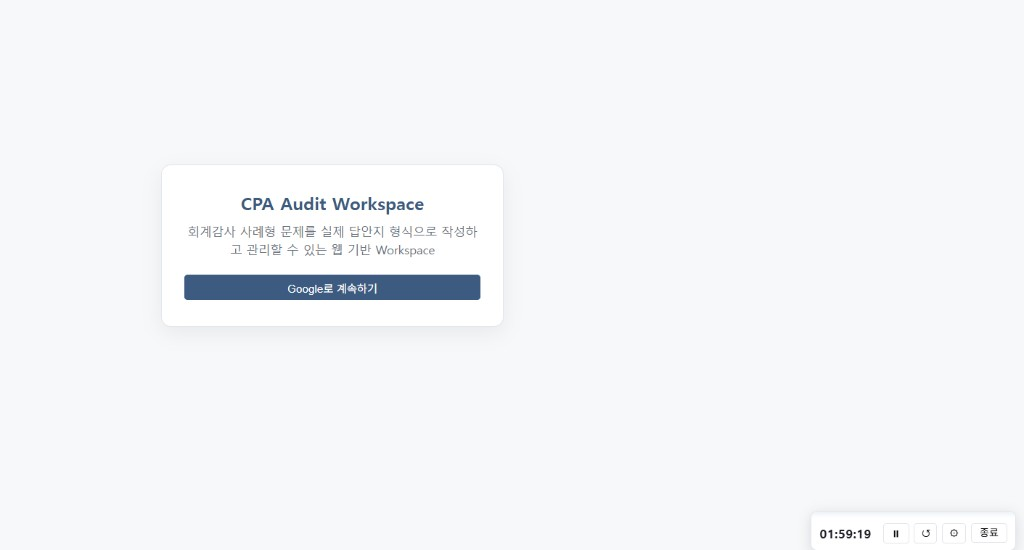
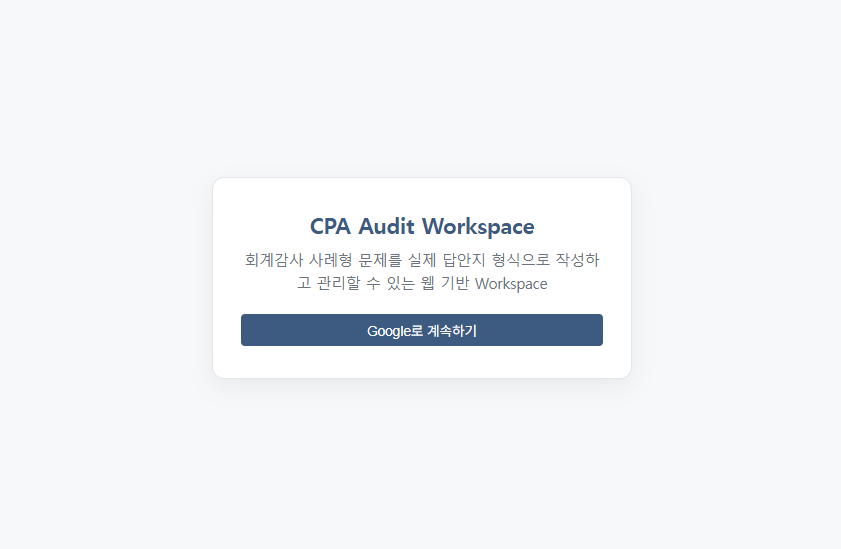
Polish README, login screenshot, and exam toolbar layout

Changed region(s): [[0.1546, 0.3406, 0.742, 0.6503], [0.8038, 0.9599, 0.8656, 0.9909], [0.9584, 0.9599, 0.9893, 0.9909]]

diff --git a/index.html b/index.html
@@ -268,59 +268,63 @@
         <div class="ws-split-pane" id="ws-split-pane">
           <section class="ws-pane ws-pane-exam is-active" id="ws-pane-exam">
             <div class="ws-header-exam-tools ws-exam-pane-toolbar" id="ws-header-exam-tools" hidden>
-              <button type="button" id="ws-prev-page" class="ws-btn ws-btn-fixed" disabled title="이전">◀</button>
-              <span class="ws-page-indicator">
-                <span id="ws-page-current" class="ws-page-current">1</span>
-                <span id="ws-page-label">/ —</span>
-              </span>
-              <button type="button" id="ws-next-page" class="ws-btn ws-btn-fixed" disabled title="다음">▶</button>
-              <span class="ws-toolbar-divider ws-toolbar-divider-inline" aria-hidden="true"></span>
-              <div class="ws-exam-search-bar" id="ws-exam-search-bar">
-                <input
-                  type="search"
-                  id="ws-exam-search-input"
-                  class="ws-exam-search-input"
-                  placeholder="검색어"
-                  aria-label="시험지 검색"
-                  autocomplete="off"
-                />
-                <button type="button" id="ws-exam-search-prev" class="ws-btn ws-btn-fixed" title="이전 결과">▲</button>
-                <button type="button" id="ws-exam-search-next" class="ws-btn ws-btn-fixed" title="다음 결과">▼</button>
-                <span id="ws-exam-search-status" class="ws-exam-search-status">0 / 0</span>
+              <div class="ws-exam-toolbar-row">
+                <button type="button" id="ws-prev-page" class="ws-btn ws-btn-fixed" disabled title="이전">◀</button>
+                <span class="ws-page-indicator">
+                  <span id="ws-page-current" class="ws-page-current">1</span>
+                  <span id="ws-page-label">/ —</span>
+                </span>
+                <button type="button" id="ws-next-page" class="ws-btn ws-btn-fixed" disabled title="다음">▶</button>
+                <span class="ws-toolbar-divider ws-toolbar-divider-inline" aria-hidden="true"></span>
+                <div class="ws-exam-search-bar" id="ws-exam-search-bar">
+                  <input
+                    type="search"
+                    id="ws-exam-search-input"
+                    class="ws-exam-search-input"
+                    placeholder="검색어"
+                    aria-label="시험지 검색"
+                    autocomplete="off"
+                  />
+                  <button type="button" id="ws-exam-search-prev" class="ws-btn ws-btn-fixed" title="이전 결과">▲</button>
+                  <button type="button" id="ws-exam-search-next" class="ws-btn ws-btn-fixed" title="다음 결과">▼</button>
+                  <span id="ws-exam-search-status" class="ws-exam-search-status">0 / 0</span>
+                </div>
+                <span id="ws-exam-search-notice" class="ws-exam-search-notice" hidden></span>
+                <span class="ws-toolbar-divider ws-toolbar-divider-inline" aria-hidden="true"></span>
+                <button type="button" id="ws-zoom-out" class="ws-btn ws-btn-fixed" title="축소">−</button>
+                <span id="ws-zoom-label" class="ws-zoom-label-fixed">100%</span>
+                <button type="button" id="ws-zoom-in" class="ws-btn ws-btn-fixed" title="확대">+</button>
+                <button type="button" id="ws-fit-width" class="ws-btn ws-btn-fit" title="너비 맞춤">맞춤</button>
               </div>
-              <span id="ws-exam-search-notice" class="ws-exam-search-notice" hidden></span>
-              <span class="ws-toolbar-divider ws-toolbar-divider-inline" aria-hidden="true"></span>
-              <button type="button" id="ws-zoom-out" class="ws-btn ws-btn-fixed" title="축소">−</button>
-              <span id="ws-zoom-label" class="ws-zoom-label-fixed">100%</span>
-              <button type="button" id="ws-zoom-in" class="ws-btn ws-btn-fixed" title="확대">+</button>
-              <button type="button" id="ws-fit-width" class="ws-btn ws-btn-fit" title="너비 맞춤">맞춤</button>
-              <button type="button" class="ws-exam-tool-btn ws-btn-fixed is-active" data-tool="view" title="커서">↖ 커서</button>
-              <button type="button" class="ws-exam-tool-btn ws-btn-fixed" data-tool="underline" title="밑줄">밑줄</button>
-              <button type="button" class="ws-exam-tool-btn ws-btn-fixed" data-tool="highlighter" title="형광펜">형광</button>
-              <button type="button" class="ws-exam-tool-btn ws-btn-fixed" data-tool="pen" title="펜">펜</button>
-              <button type="button" class="ws-exam-tool-btn ws-btn-fixed" data-tool="eraser" title="지우개">지우개</button>
-              <span id="ws-exam-color-wrap" class="ws-exam-color-wrap" hidden>
-                <select id="ws-exam-line-color" class="ws-tool-select" title="밑줄 색상">
-                  <option value="red">빨강</option>
-                  <option value="blue">파랑</option>
-                  <option value="black">검정</option>
-                </select>
-                <select id="ws-exam-highlight-color" class="ws-tool-select" title="형광펜 색" hidden>
-                  <option value="yellow">노랑</option>
-                  <option value="green">초록</option>
-                  <option value="pink">분홍</option>
-                </select>
-                <select id="ws-exam-pen-color" class="ws-tool-select" title="펜 색상" hidden>
-                  <option value="red">빨강</option>
-                  <option value="blue">파랑</option>
-                  <option value="black">검정</option>
-                </select>
-                <select id="ws-exam-pen-width" class="ws-tool-select" title="펜 굵기" hidden>
-                  <option value="thin">가늘게</option>
-                  <option value="normal">보통</option>
-                </select>
-              </span>
-              <button type="button" id="ws-annot-undo" class="ws-btn ws-btn-fixed" title="주석 실행 취소">↶</button>
+              <div class="ws-exam-toolbar-row ws-exam-toolbar-row-annot">
+                <button type="button" class="ws-exam-tool-btn ws-btn-fixed is-active" data-tool="view" title="커서">↖ 커서</button>
+                <button type="button" class="ws-exam-tool-btn ws-btn-fixed" data-tool="underline" title="밑줄">밑줄</button>
+                <button type="button" class="ws-exam-tool-btn ws-btn-fixed" data-tool="highlighter" title="형광펜">형광펜</button>
+                <button type="button" class="ws-exam-tool-btn ws-btn-fixed" data-tool="pen" title="펜">펜</button>
+                <button type="button" class="ws-exam-tool-btn ws-btn-fixed" data-tool="eraser" title="지우개">지우개</button>
+                <span id="ws-exam-color-wrap" class="ws-exam-color-wrap" hidden>
+                  <select id="ws-exam-line-color" class="ws-tool-select" title="밑줄 색상">
+                    <option value="red">빨강</option>
+                    <option value="blue">파랑</option>
+                    <option value="black">검정</option>
+                  </select>
+                  <select id="ws-exam-highlight-color" class="ws-tool-select" title="형광펜 색" hidden>
+                    <option value="yellow">노랑</option>
+                    <option value="green">초록</option>
+                    <option value="pink">분홍</option>
+                  </select>
+                  <select id="ws-exam-pen-color" class="ws-tool-select" title="펜 색상" hidden>
+                    <option value="red">빨강</option>
+                    <option value="blue">파랑</option>
+                    <option value="black">검정</option>
+                  </select>
+                  <select id="ws-exam-pen-width" class="ws-tool-select" title="펜 굵기" hidden>
+                    <option value="thin">가늘게</option>
+                    <option value="normal">보통</option>
+                  </select>
+                </span>
+                <button type="button" id="ws-annot-undo" class="ws-btn ws-btn-fixed" title="주석 실행 취소">↶</button>
+              </div>
             </div>
             <div class="ws-pane-scroll ws-exam-scroll" id="ws-exam">
               <div id="ws-exam-pages" class="ws-exam-pages"></div>

diff --git a/workspace.css b/workspace.css
@@ -370,6 +370,14 @@ body {
 
 .ws-header-exam-tools {
   display: flex;
+  flex-direction: column;
+  align-items: stretch;
+  gap: 6px;
+  min-width: 0;
+}
+
+.ws-exam-toolbar-row {
+  display: flex;
   align-items: center;
   flex-wrap: wrap;
   gap: 6px;

diff --git a/README.md b/README.md
@@ -196,7 +196,8 @@ Supabase Google OAuth Redirect URL(로컬·배포) 등록 필요.
 ## 프로젝트 회고
 
 - CPA 사례형 학습 과정에서 느낀 **실제 불편**을 해결하기 위해 시작했습니다.
-- Cursor와 생성형 AI는 **개발 보조 도구**로 활용했습니다.
+- 진행하면서 AI의 성능 자체보다 **해결해야 할 문제를 정확히 정의하는 것**이 더 중요하다는 점을 배웠습니다. 사용자의 목적을 명확히 이해하고, 그 목적에 맞는 기능을 설계하는 과정이 좋은 결과로 이어진다는 것도 체감했습니다.
+- Cursor와 생성형 AI는 **정답을 대신 만들어 주는 존재가 아니라**, 사람이 더 나은 해결책을 만들 수 있도록 돕는 **개발 보조 도구**로 활용했습니다.
 - 기능 정의, 설계, 우선순위, 테스트, 오류 수정, 기능 삭제·방향 전환은 **직접** 수행했습니다.
 - Google OAuth, Supabase(RLS), IndexedDB, Render 배포까지 연결해 **하나의 웹 서비스**로 완성했습니다.
 